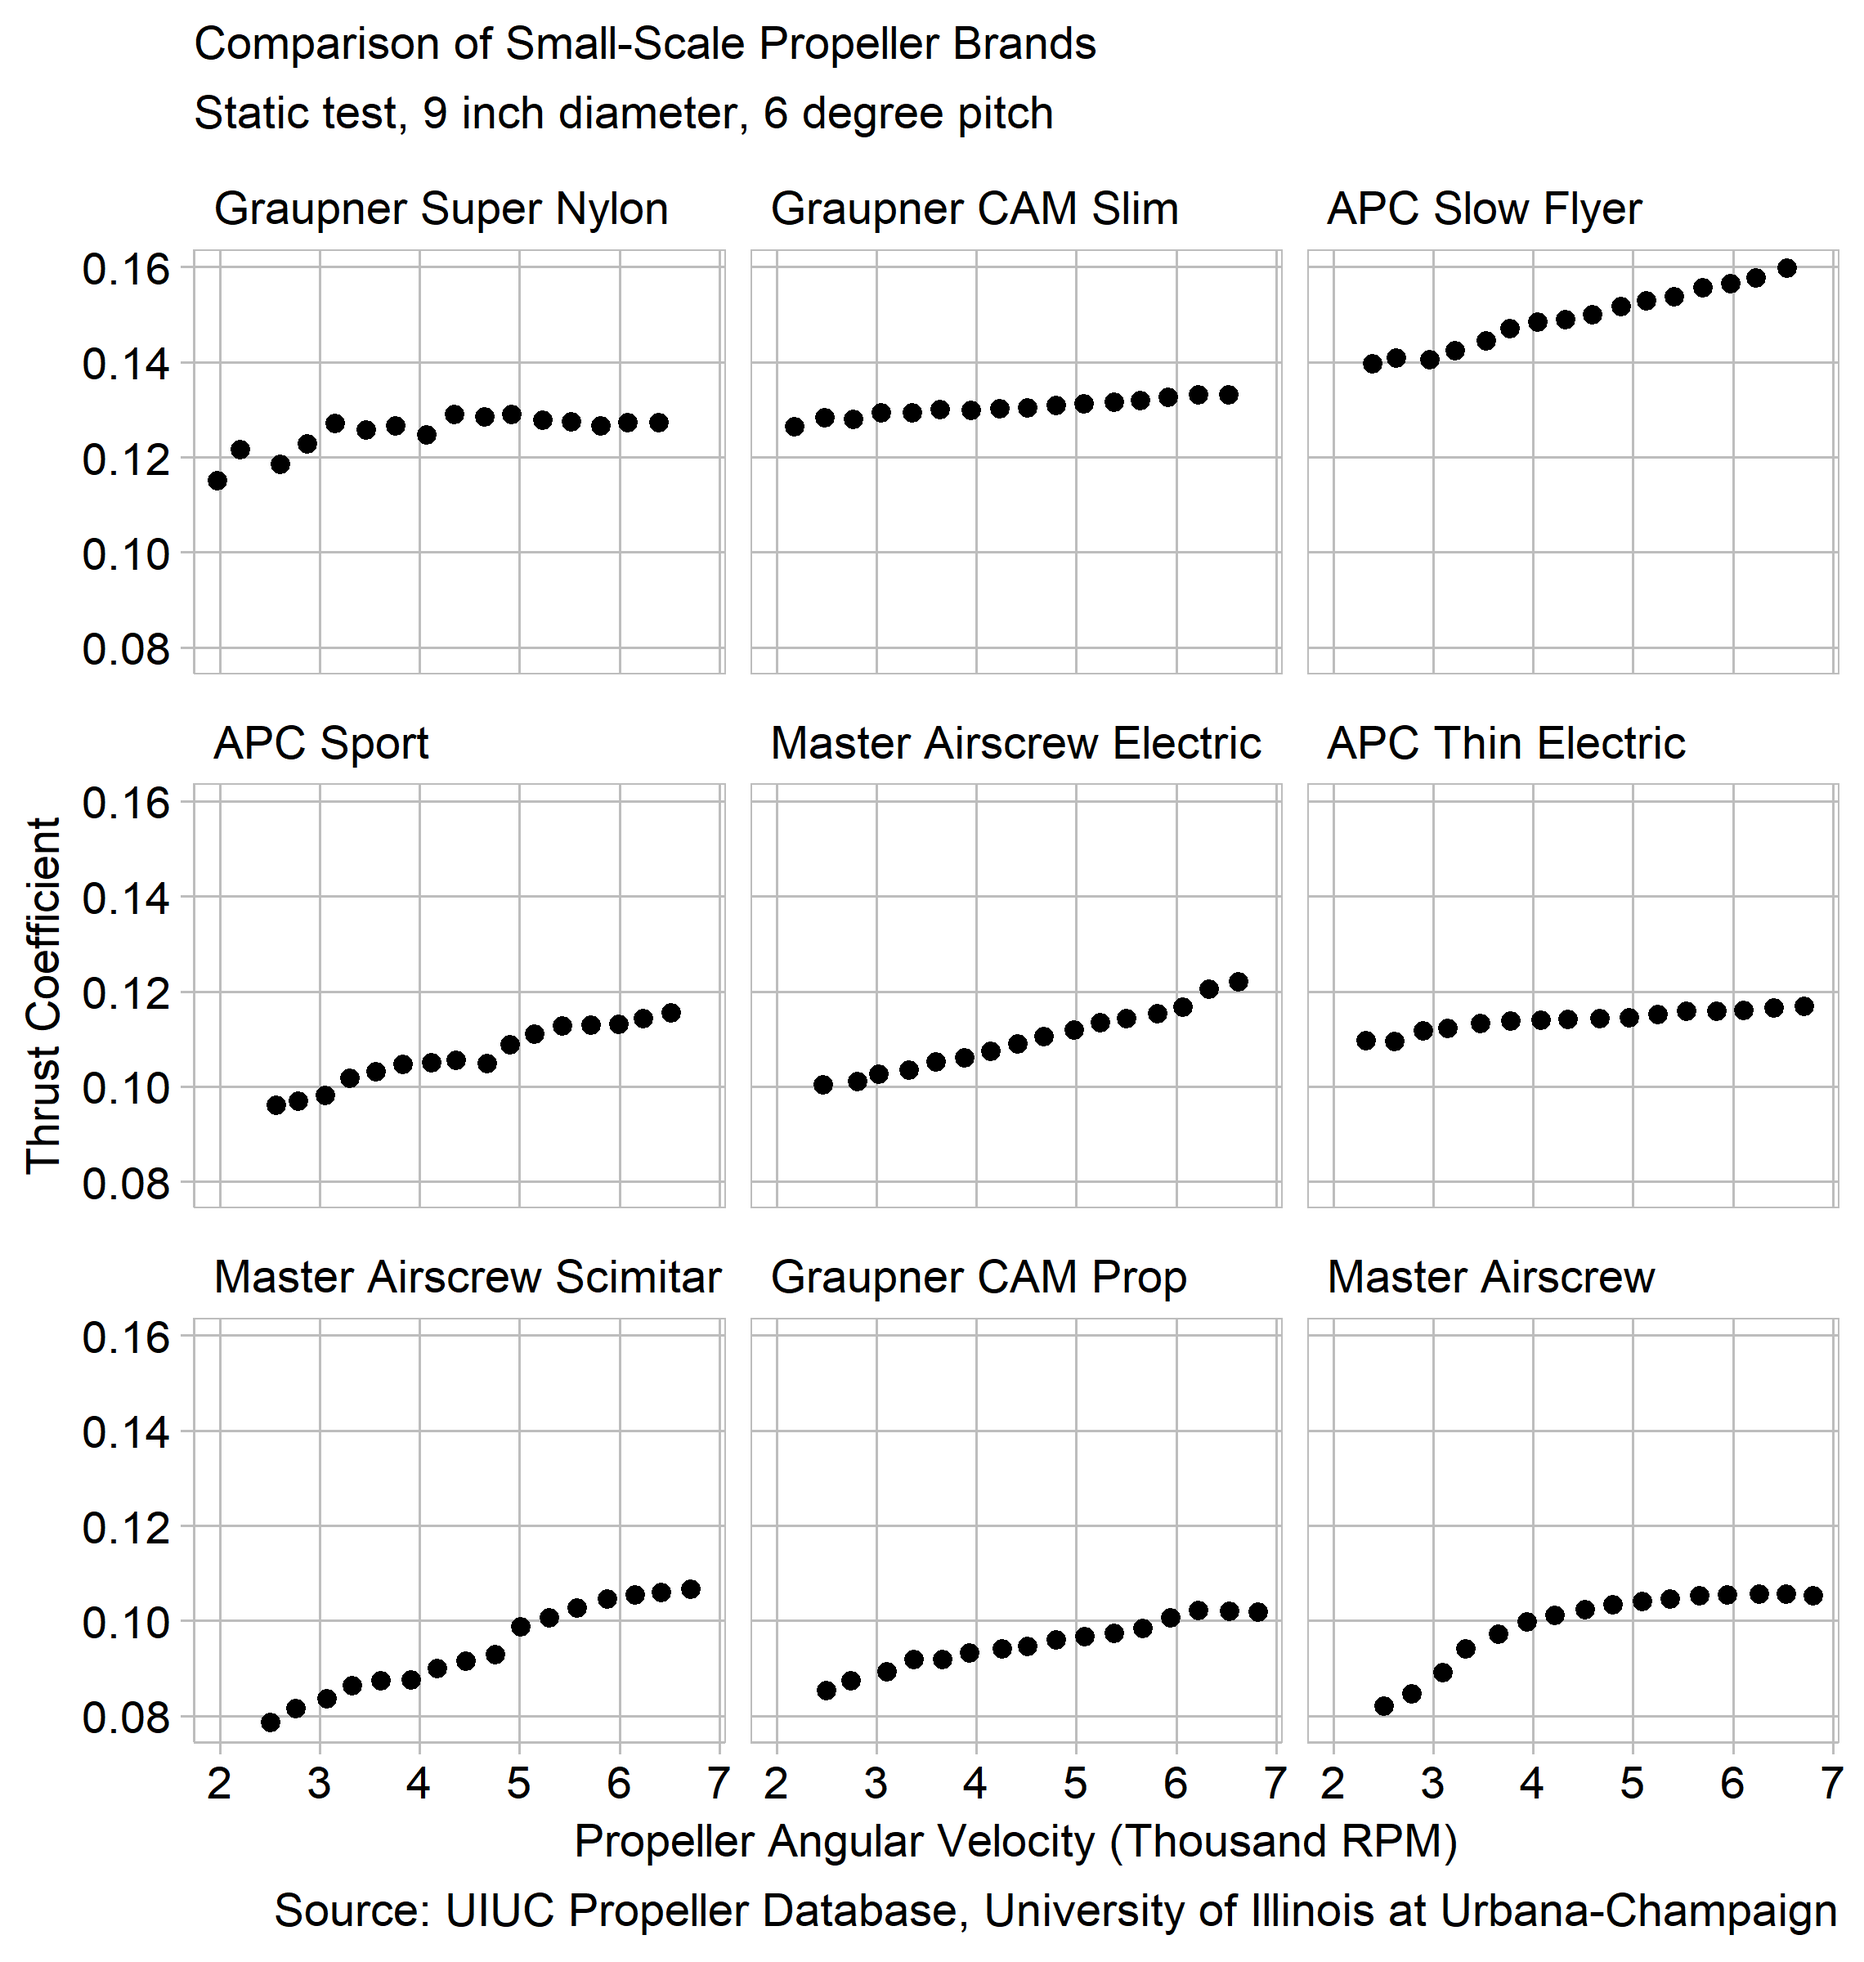
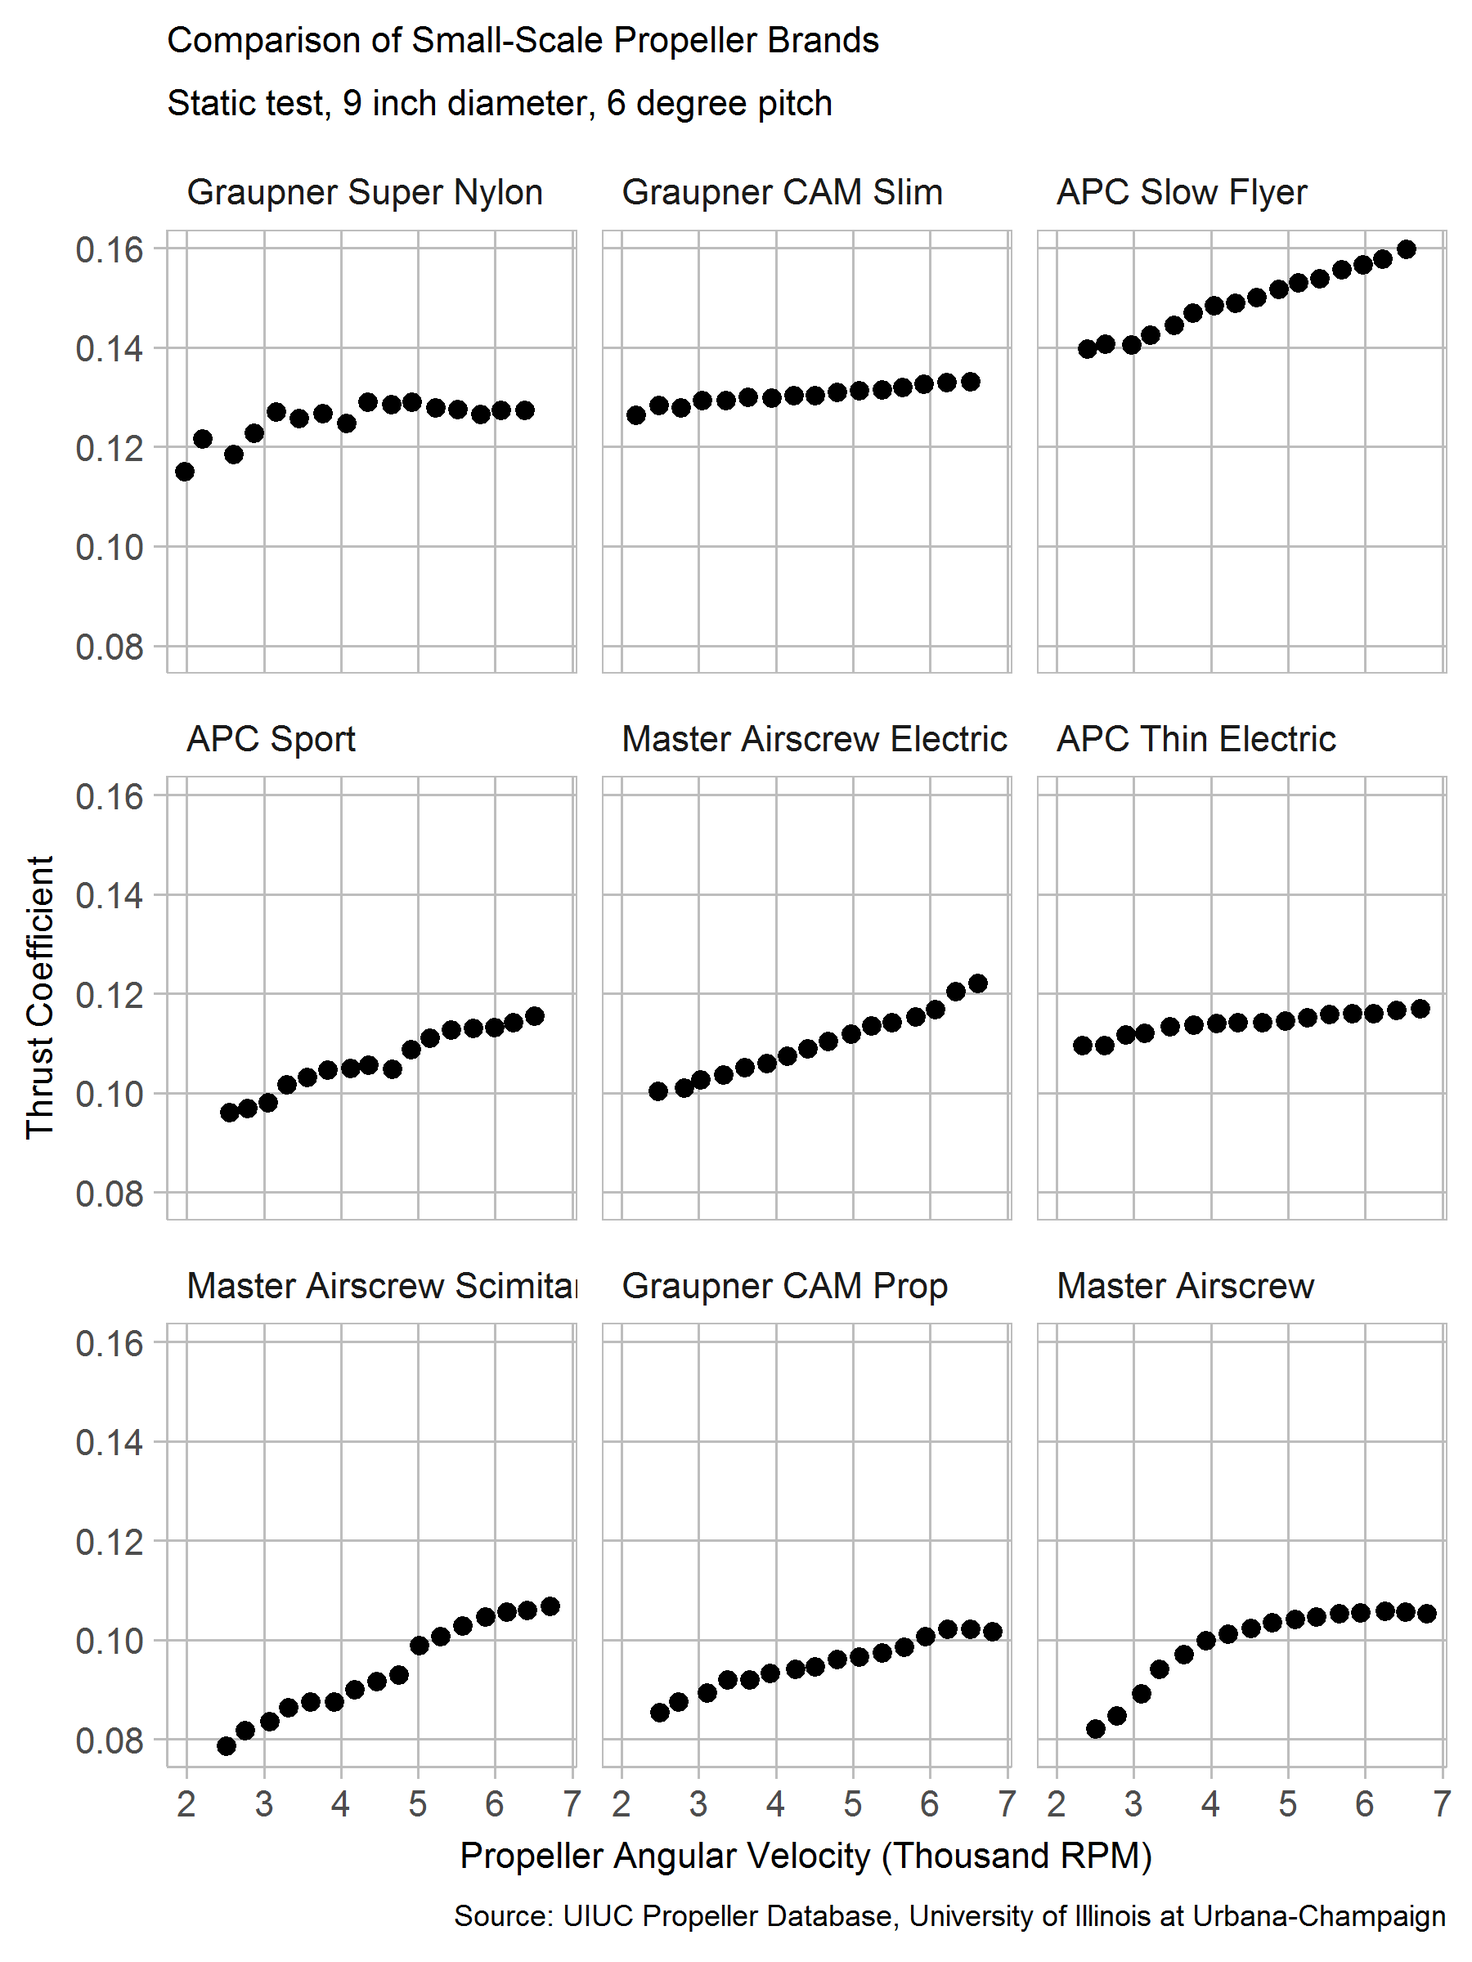
d3-02

diff --git a/reports/d3.md b/reports/d3.md
@@ -15,7 +15,7 @@ My senior design project is to make a model aircraft that fulfills the requireme
 
 Fortunately there are significant collections of propeller performance data freely availible online. The data for the graph below was collected from the University of Illinois at Urbana-Champaign Propeller Database, where it originally was taken from a MS thesis by John Brandt in 2008. I am interested in the propeller performance at takeoff, so the data I used in the display below is from static tests of each propeller - the propeller is held in place and only pulls still air (similar to a plane accelerating from a standstill, but not one in flight).
 
-![](../figures/d3_Propeller.png) There are 144 observations of Thrust coefficient for 9 Brands of propellers at various RPMs. Thrust Coefficient is a nondimensionalized version of thrust that allows the relative efficiency of different propellers to be easily compared. In general when these small-scale propellers are sold their diameter and pitch angle are listed as the only specifications. Any other differences are communicated through the use of non-technical terms like "Sport" or "Slow fly". In the display above I compare propellers with the same diameter and pitch so that I can quantify the difference between propellers with these different marketing terms.
+<img src="../figures/d3_Propeller.png" width="1800" /> There are 144 observations of Thrust coefficient for 9 Brands of propellers at various RPMs. Thrust Coefficient is a nondimensionalized version of thrust that allows the relative efficiency of different propellers to be easily compared. In general when these small-scale propellers are sold their diameter and pitch angle are listed as the only specifications. Any other differences are communicated through the use of non-technical terms like "Sport" or "Slow fly". In the display above I compare propellers with the same diameter and pitch so that I can quantify the difference between propellers with these different marketing terms.
 
 The main takeaway from the display is that there is a difference between these propellers. Some propellers produce much more static thrust than others. Not only that, but the amount of increased efficiency with RPM can vary dramatically. While the APC Slow FLyer benefits greatly with increased RPM, the Graupner Super Nylon is equally efficient at most RPMs. This has signifigant implications on motor choice. This display shows the benefit of choosing the right propeller for static thrust, however, It makes me ask what the costs are. The next step would be to look at the dynamic Tests to see if the propellers are trading dynamic for static performance.
 
